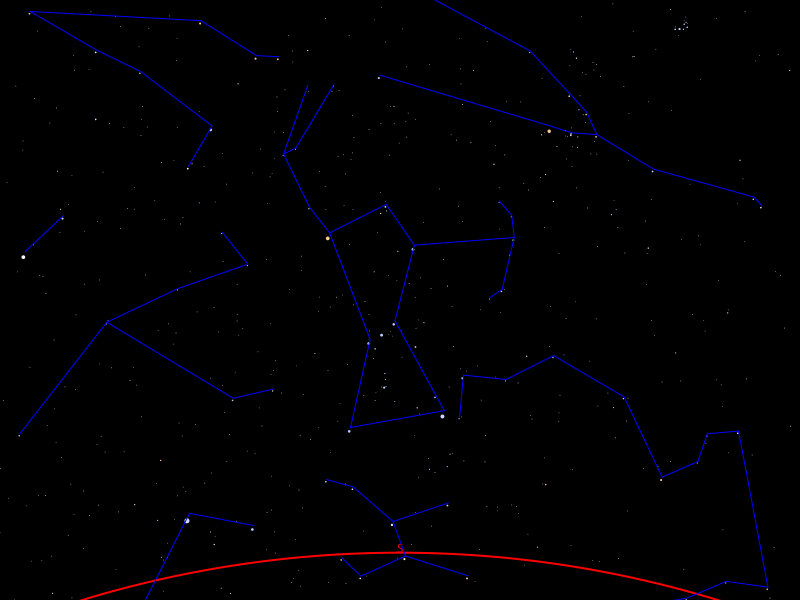
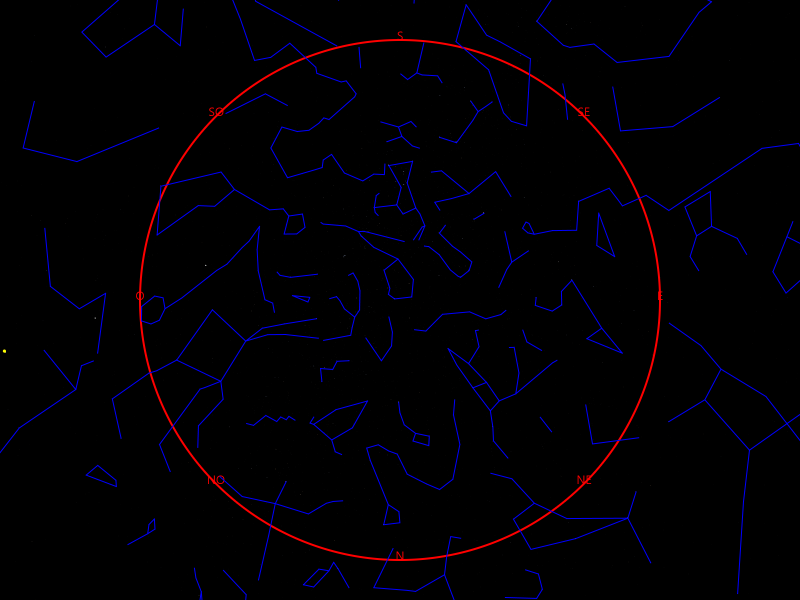
corrected errors, etape 8 working

diff --git a/src/ch/epfl/rigel/gui/SkyCanvasPainter.java b/src/ch/epfl/rigel/gui/SkyCanvasPainter.java
@@ -80,7 +80,7 @@ public class SkyCanvasPainter {
             //we store transformedstarcoordinates in an array to use when drawing asterism later.
             transformedStarPos[j] =transformedCoordinates;
             ctx.setFill(BlackBodyColor.colorForTemperature(s.colorTemperature()));
-            ctx.fillOval(transformedCoordinates.getX()-discRadius,transformedCoordinates.getY()+discRadius,discRadius,discRadius);
+            ctx.fillOval(transformedCoordinates.getX()-discRadius,transformedCoordinates.getY()-discRadius,discRadius,discRadius);
             i+=2;
             j++;
         }
@@ -99,7 +99,7 @@ public class SkyCanvasPainter {
             double discRadius = this.transformedDiscDiameter(planet,projection,planeToAffine);
             Point2D transformedCoordinates = this.transformCoordinates(sky.planetCoordinates()[i],sky.planetCoordinates()[i+1],planeToAffine);
             ctx.setFill(Color.LIGHTGRAY);
-            ctx.fillOval(transformedCoordinates.getX()-discRadius,transformedCoordinates.getY()+discRadius,discRadius,discRadius);
+            ctx.fillOval(transformedCoordinates.getX()-discRadius,transformedCoordinates.getY()-discRadius,discRadius,discRadius);
             i+=2;
         }
     }
@@ -116,14 +116,14 @@ public class SkyCanvasPainter {
             Point2D transformedCoordinates = this.transformCoordinates(sky.sunPosition().x(),sky.sunPosition().y(),planeToAffine);
             // drawing smallest disc
             ctx.setFill(Color.WHITE);
-            ctx.fillOval(transformedCoordinates.getX()-discRadius,transformedCoordinates.getY()+discRadius,discRadius,discRadius);
+            ctx.fillOval(transformedCoordinates.getX()-discRadius,transformedCoordinates.getY()-discRadius,discRadius,discRadius);
             //drawing middle size disc
             ctx.setFill(Color.YELLOW);
-            ctx.fillOval(transformedCoordinates.getX()-(discRadius+2),transformedCoordinates.getY()+(discRadius+2),(discRadius+2),(discRadius+2));
+            ctx.fillOval(transformedCoordinates.getX()-(discRadius+2),transformedCoordinates.getY()-(discRadius+2),(discRadius+2),(discRadius+2));
             //drawing largest disc the halo
             canvas.setOpacity(0.25);
             ctx.setFill(Color.YELLOW);
-            ctx.fillOval(transformedCoordinates.getX()-(discRadius*2.2),transformedCoordinates.getY()+(discRadius*2.2),(discRadius*2.2),(discRadius*2.2));
+            ctx.fillOval(transformedCoordinates.getX()-(discRadius*2.2),transformedCoordinates.getY()-(discRadius*2.2),(discRadius*2.2),(discRadius*2.2));
             canvas.setOpacity(1);
 
         }
@@ -139,17 +139,17 @@ public class SkyCanvasPainter {
         double discRadius = this.transformedDiscDiameter(sky.moon(),projection,planeToAffine);
         Point2D transformedCoordinates = this.transformCoordinates(sky.moonPosition().x(),sky.moonPosition().y(),planeToAffine);
         ctx.setFill(Color.WHITE);
-        ctx.fillOval(transformedCoordinates.getX()-discRadius,transformedCoordinates.getY()+discRadius,discRadius,discRadius);
+        ctx.fillOval(transformedCoordinates.getX()-discRadius,transformedCoordinates.getY()-discRadius,discRadius,discRadius);
     }
 
     public void drawHorizon(ObservedSky sky, StereographicProjection projection, Transform planeToAffine){
-        HorizontalCoordinates horizonCoord = HorizontalCoordinates.ofDeg(0, 23);
+        HorizontalCoordinates horizonCoord = HorizontalCoordinates.ofDeg(0, 0);
         double discRadius = projection.circleRadiusForParallel(horizonCoord);
         CartesianCoordinates circleCenter = projection.circleCenterForParallel(horizonCoord);
         double transformedRadius = planeToAffine.deltaTransform(new Point2D(discRadius,discRadius)).getX();
         Point2D transformedCoordinates = this.transformCoordinates(circleCenter.x(),circleCenter.y(),planeToAffine);
-        double horizonX = transformedCoordinates.getX() - transformedRadius;
-        double horizonY = transformedCoordinates.getY() + transformedRadius;
+        double horizonX = transformedCoordinates.getX() - transformedRadius ;
+        double horizonY = transformedCoordinates.getY() - transformedRadius;
         ctx.setStroke(Color.RED);
         ctx.setLineWidth(2);
         ctx.strokeOval(horizonX,horizonY, transformedRadius*2, transformedRadius*2);
@@ -162,7 +162,7 @@ public class SkyCanvasPainter {
         ctx.fillText("S",horizonX+transformedRadius,horizonY);
         ctx.fillText("SE",horizonX + transformedRadius + transformedRadius*Math.cos(Angle.ofDeg(45)),horizonY+(transformedRadius - transformedRadius*Math.sin(Angle.ofDeg(45))));
         ctx.fillText("E",horizonX+transformedRadius*2,horizonY+transformedRadius);
-        ctx.fillText("NE",horizonX + transformedRadius*Math.cos(Angle.ofDeg(45)),horizonY+(transformedRadius + transformedRadius*Math.sin(Angle.ofDeg(45))));
+        ctx.fillText("NE",horizonX + + transformedRadius + transformedRadius*Math.cos(Angle.ofDeg(45)),horizonY+(transformedRadius + transformedRadius*Math.sin(Angle.ofDeg(45))));
         ctx.fillText("N",horizonX+transformedRadius,horizonY+transformedRadius*2);
         ctx.fillText("NO", horizonX + (transformedRadius-transformedRadius*Math.cos(Angle.ofDeg(45))),horizonY + transformedRadius + transformedRadius*Math.sin(Angle.ofDeg(45)));
         ctx.fillText("O",horizonX,horizonY+transformedRadius);

diff --git a/src/ch/epfl/rigel/gui/DrawSky.java b/src/ch/epfl/rigel/gui/DrawSky.java
@@ -39,13 +39,13 @@ public  final  class DrawSky extends Application {
 
             ZonedDateTime when = ZonedDateTime.parse ( "2020-02-17T20:15:00+01:00" );
             GeographicCoordinates where = GeographicCoordinates.ofDeg ( 6.57, 46.52 );
-            HorizontalCoordinates projCenter = HorizontalCoordinates.ofDeg ( 180, 45 );
+            HorizontalCoordinates projCenter = HorizontalCoordinates.ofDeg ( 0, 90);
             StereographicProjection projection = new StereographicProjection (projCenter);
             ObservedSky sky = new ObservedSky(when, where, projection, catalog);
             System.out.println(sky.stars().length);
 
             Canvas canvas = new Canvas ( 800, 600 );
-            Transform planeToCanvas = Transform.affine( 1300 , 0 , 0 , -1300 , 400 , 300 );
+            Transform planeToCanvas = Transform.affine( 260 , 0 , 0 , -260 , 400 , 300 );
             SkyCanvasPainter painter = new SkyCanvasPainter (canvas);
             painter.drawStars(sky, projection, planeToCanvas);
             painter.drawPlanets(sky, projection, planeToCanvas);
